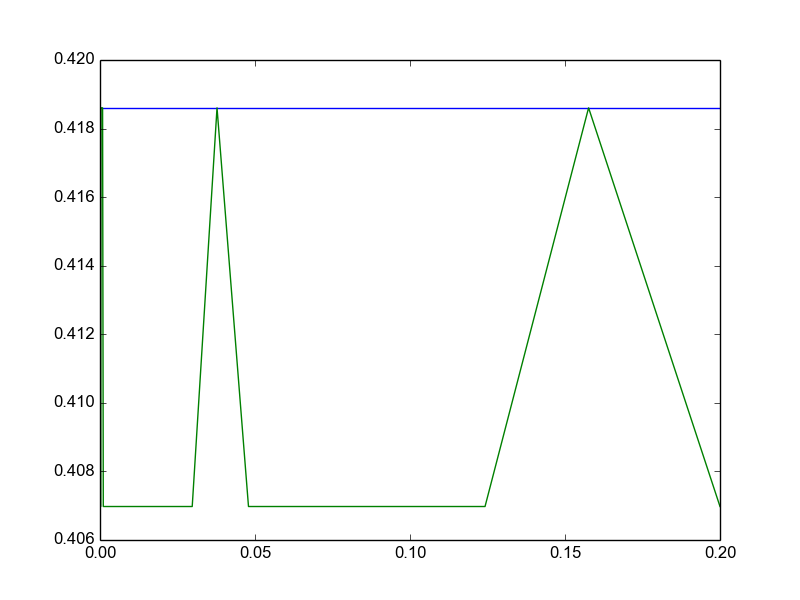
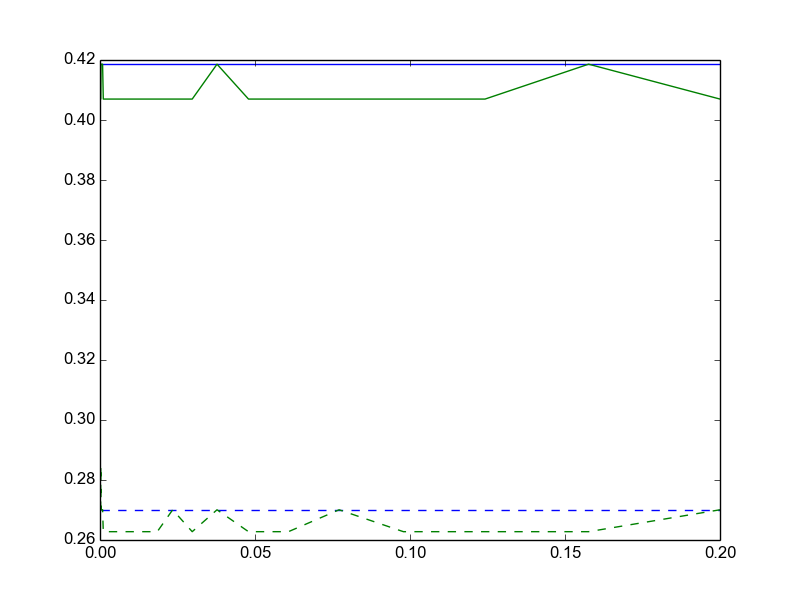
add test risks on graphs

diff --git a/validate.py b/validate.py
@@ -53,7 +53,8 @@ class Validator:
 
     def _validate_anomaly_detector(self, filename, predictor, nu_range, gamma_range):
         list_nu = []
-        list_risk = []
+        list_risk_valid = []
+        list_risk_test = []
 
         test = (-1, -1, -1, -1)
 
@@ -84,8 +85,15 @@ class Validator:
                         test = (nu, gamma, np_valid, risk_np)
 
             print (nu, best_gamma_np, best_np_valid, best_risk_np)
+
+            estimator = predictor(nu=nu, kernel='rbf', gamma=best_gamma_np)
+            estimator.fit(self.train_w_anomaly, self.y_train_w_anomaly)
+            y_test_predict = estimator.predict(self.test)
+            risk_test_np = risk(y_test_predict, self.y_test)
+
             list_nu.append(nu)
-            list_risk.append(best_risk_np)
+            list_risk_valid.append(best_risk_np)
+            list_risk_test.append(risk_test_np)
 
             if best_risk_valid == -1 or best_risk_np < best_risk_valid:
                 best_risk_valid = best_risk_np
@@ -103,7 +111,7 @@ class Validator:
 
         self._generate_result_file(filename, best_nu, best_gamma, risk_test, risk_bound_test)
 
-        return best_nu, best_gamma, best_risk_valid, risk_test, risk_bound_test, list_nu, list_risk
+        return best_nu, best_gamma, best_risk_valid, risk_test, risk_bound_test, list_nu, list_risk_valid, list_risk_test
 
     def svc_biclass(self, dataset, nu_range, gamma_range):
         best_risk_valid = -1

diff --git a/run_valid.py b/run_valid.py
@@ -12,16 +12,19 @@ def validate(name, X, Y, normal_class):
     gamma_range = np.logspace(-5, 4, 10)
     validator = Validator(X, Y, normal, y_normal, anomaly, y_anomaly)
 
+    """
     hypersphere_valid = validator.hyperspherical_predictor(name, nu_range, gamma_range)
-    print hypersphere_valid[:-2]
+    print hypersphere_valid[:-3]
     one_class_svm_valid = validator.one_class_svm(name, nu_range, gamma_range)
-    print one_class_svm_valid[:-2]
+    print one_class_svm_valid[:-3]
 
-    plt.plot(hypersphere_valid[-2], hypersphere_valid[-1])
-    plt.plot(one_class_svm_valid[-2], one_class_svm_valid[-1])
+    plt.plot(hypersphere_valid[-3], hypersphere_valid[-2], 'b')
+    plt.plot(hypersphere_valid[-3], hypersphere_valid[-1], 'b--')
+    plt.plot(one_class_svm_valid[-3], one_class_svm_valid[-2], 'g')
+    plt.plot(one_class_svm_valid[-3], one_class_svm_valid[-1], 'g--')
     #plt.show()
     plt.savefig('graphs/' + name + '.png')
-
+    """
     print validator.svc_biclass(name, nu_range, gamma_range)
     print validator.multiclass_hyperspherical_predictor(name, nu_range, gamma_range)
     print validator.multiclass_one_class_svm(name, nu_range, gamma_range)

diff --git a/test_packets.py b/test_packets.py
@@ -14,7 +14,7 @@ nbTest = 2000
 
 print "Beginning of loading."
 X, Y, text_features, class_dict = load_packets();
-X, Y = X[:8000], Y[:8000] # On ne prend pas tout le dataset
+X, Y = X[:4000], Y[:4000] # On ne prend pas tout le dataset
 normal_class = class_dict['normal']
 
 #nbTest = len(X) - nbTrain
